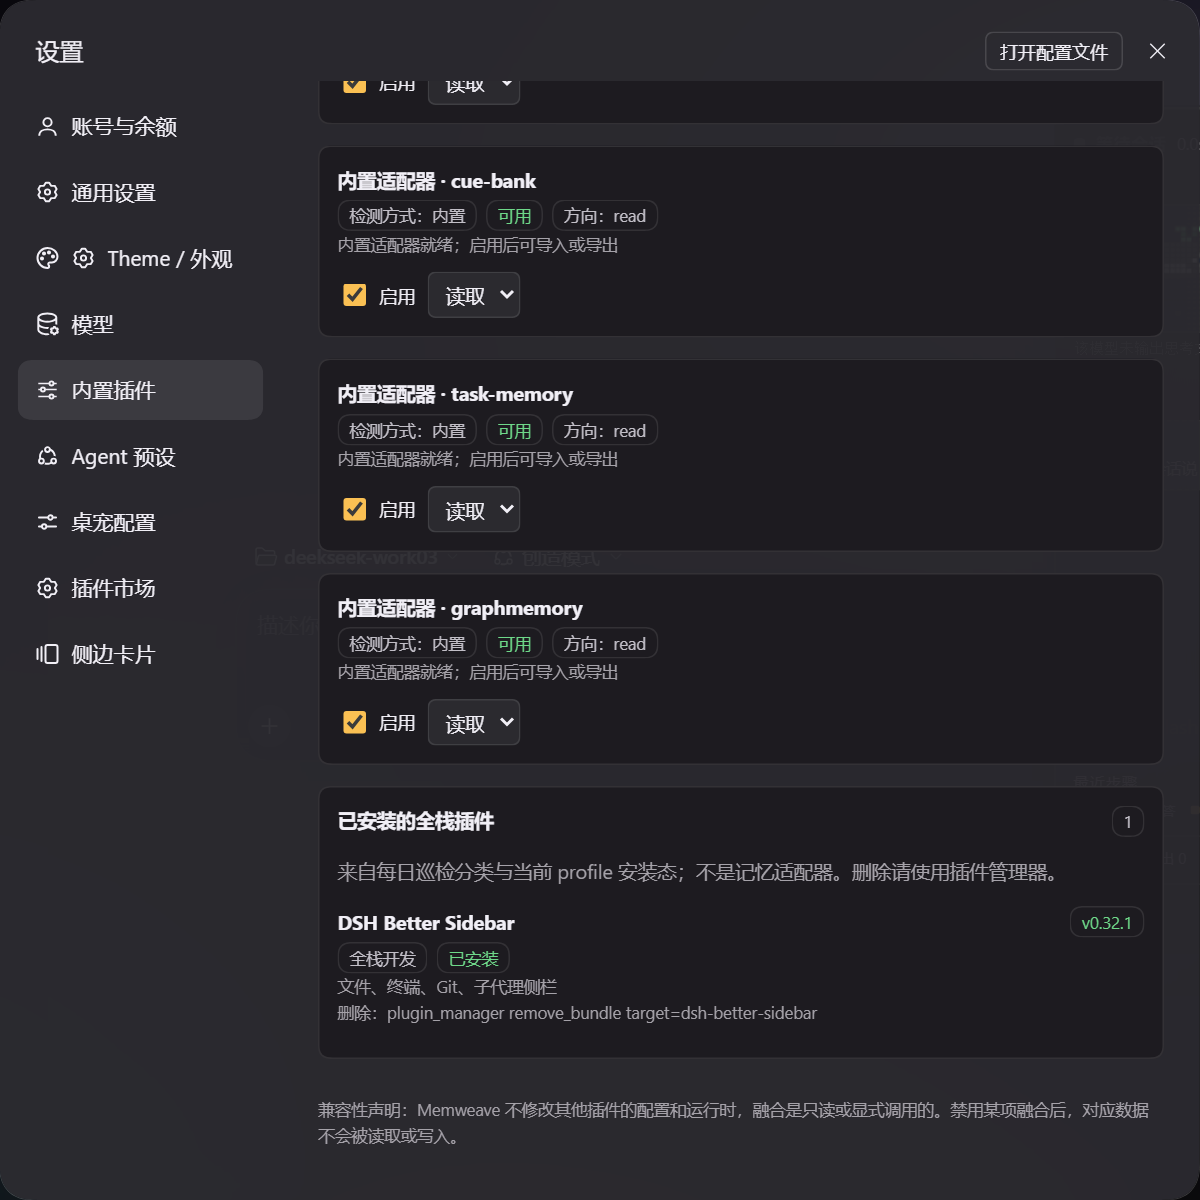
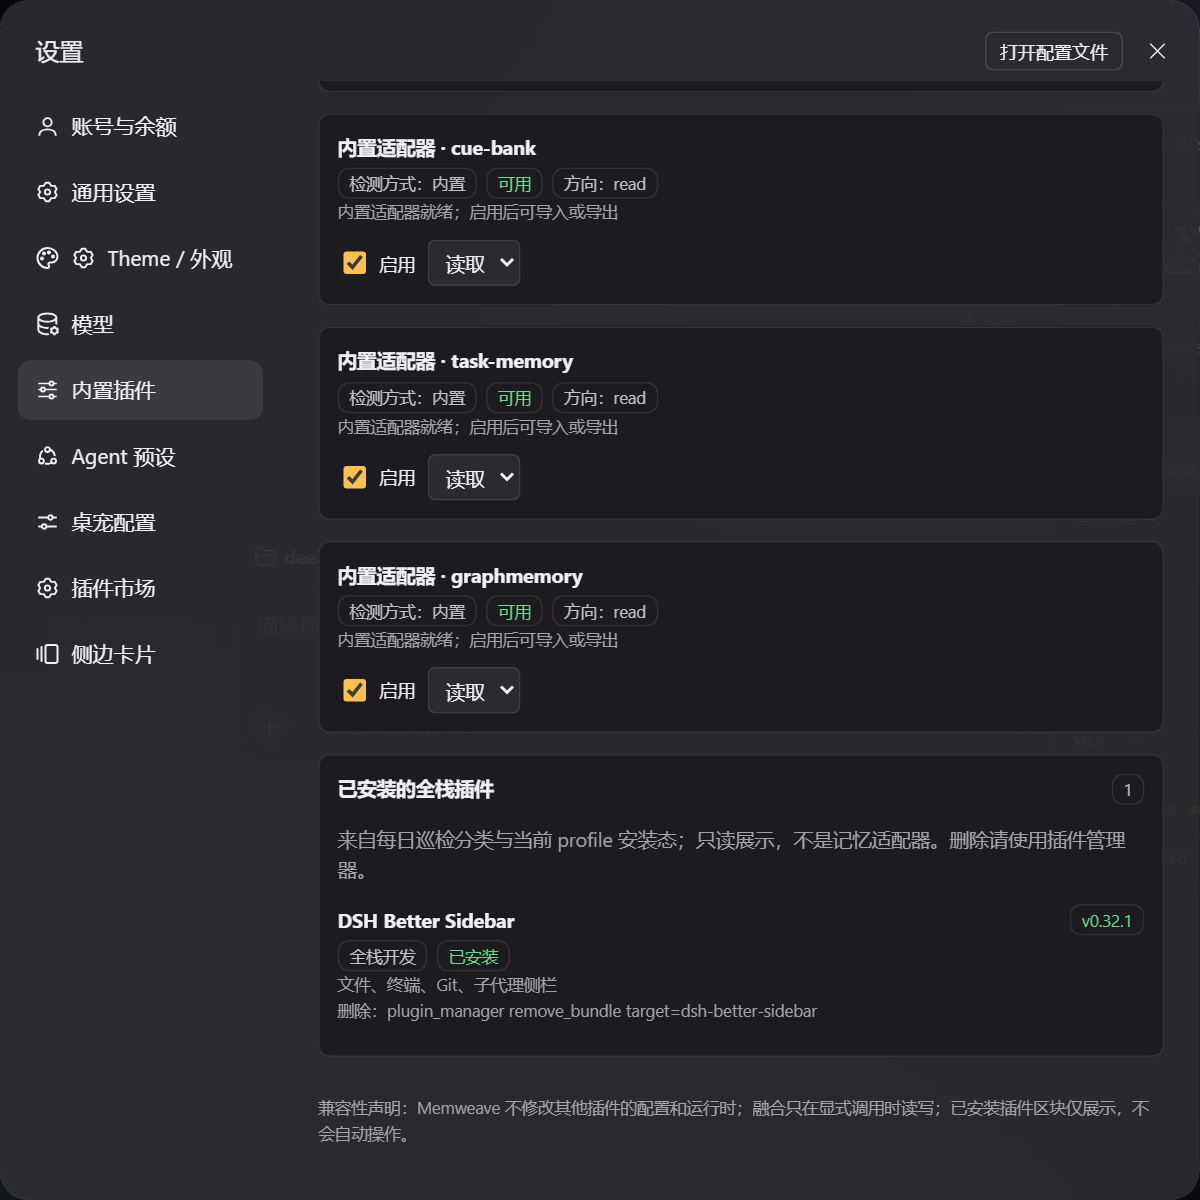
fix(ui): align page descriptions with fixed adapters and discovery
Clarify the storage and fusion intros, distinguish the five fixed memory adapters from the read-only installed full-stack plugin section, and update the affected screenshots. Re-run tests, syntax, and link checks.

diff --git a/client/index.js b/client/index.js
@@ -30,7 +30,7 @@ window.__ModuleLoader__.load({
       tabMemories: '技能浏览',
       tabFusion: '融合',
       storageTitle: '存储与分类',
-      storageIntro: '组织记忆落在绝对路径或当前 workspace 的 .memweave/ 目录。分类计数来自 Host 半的实时扫描。',
+      storageIntro: '记忆数据默认存于当前 workspace 的 .memweave/，也可配置绝对路径；分类与状态计数来自 Host 实时扫描（包含全部状态）。',
       currentRoot: '当前存储根',
       sourceConfigured: '已配置绝对路径',
       sourceSession: '会话 workspace',
@@ -95,10 +95,10 @@ window.__ModuleLoader__.load({
       statusDisputed: '有争议',
       statusSuperseded: '已取代',
       fusionTitle: '融合',
-      fusionIntro: '只读探测兼容记忆插件；内置适配器、安装或检测到即显示可用。启用只解除显式导入/导出的方向限制，不会自动同步，也不修改其他插件。',
-      fusionSummary: '检测到 {count} 个兼容目标，{available} 个可用，{enabled} 个已启用',
+      fusionIntro: '融合页分为两部分：上方是 5 个固定内置记忆适配器，不随市场巡检变化；下方是已安装的全栈开发插件（只读展示）。启用与方向只作用于记忆适配器，不会自动同步或修改其他插件。',
+      fusionSummary: '检测到 {count} 个记忆适配器，{available} 个可用，{enabled} 个已启用',
       discoveryTitle: '已安装的全栈插件',
-      discoveryIntro: '来自每日巡检分类与当前 profile 安装态；不是记忆适配器。删除请使用插件管理器。',
+      discoveryIntro: '来自每日巡检分类与当前 profile 安装态；只读展示，不是记忆适配器。删除请使用插件管理器。',
       discoveryEmpty: '暂无已安装的全栈插件。',
       discoveryInstalled: '已安装',
       discoveryDeleteHint: '删除：plugin_manager remove_bundle target=',
@@ -118,7 +118,7 @@ window.__ModuleLoader__.load({
       directionBoth: '双向',
       aggregateOn: '聚合包已启用',
       aggregateOff: '独立安装',
-      compatibilityNote: '兼容性声明：Memweave 不修改其他插件的配置和运行时，融合是只读或显式调用的。禁用某项融合后，对应数据不会被读取或写入。',
+      compatibilityNote: '兼容性声明：Memweave 不修改其他插件的配置和运行时；融合只在显式调用时读写；已安装插件区块仅展示，不会自动操作。',
       fusionError: '融合操作失败',
       noPlugins: '未检测到兼容插件。',
       apply: '应用',
@@ -136,7 +136,7 @@ window.__ModuleLoader__.load({
       tabMemories: 'Memories',
       tabFusion: 'Fusion',
       storageTitle: 'Storage & categories',
-      storageIntro: 'Organizational memory lives under an absolute root or the current workspace .memweave/. Counts are scanned live by the Host half.',
+      storageIntro: 'Memory data lives under the current workspace .memweave/ by default, or an absolute root you configure. Type/status counts are scanned live by the Host half and include all states.',
       currentRoot: 'Current storage root',
       sourceConfigured: 'Configured absolute path',
       sourceSession: 'Session workspace',
@@ -201,10 +201,10 @@ window.__ModuleLoader__.load({
       statusDisputed: 'Disputed',
       statusSuperseded: 'Superseded',
       fusionTitle: 'Fusion',
-      fusionIntro: 'Read-only probes over compatible memory plugins; built-in adapters, installed packages, or detected data show as available. Enabling only unlocks explicit import/export directions and never auto-syncs or edits another plugin.',
-      fusionSummary: '{count} compatibility targets, {available} available, {enabled} enabled',
+      fusionIntro: 'Fusion has two parts: five fixed built-in memory adapters above (not changed by marketplace discovery), and installed full-stack plugins below (read-only). Enable/direction apply only to memory adapters; nothing syncs automatically or edits another plugin.',
+      fusionSummary: '{count} memory adapters, {available} available, {enabled} enabled',
       discoveryTitle: 'Installed full-stack plugins',
-      discoveryIntro: 'From the daily discovery category and active-profile install state; these are not memory adapters. Remove them with the plugin manager.',
+      discoveryIntro: 'From the daily discovery category and active-profile install state; read-only, not memory adapters. Remove with the plugin manager.',
       discoveryEmpty: 'No full-stack plugins installed.',
       discoveryInstalled: 'Installed',
       discoveryDeleteHint: 'Remove: plugin_manager remove_bundle target=',
@@ -224,7 +224,7 @@ window.__ModuleLoader__.load({
       directionBoth: 'Both',
       aggregateOn: 'Aggregate bundle enabled',
       aggregateOff: 'Standalone install',
-      compatibilityNote: 'Compatibility: Memweave does not modify another plugin’s configuration or runtime. Fusion is read-only or explicit. Disabling a fusion source stops all reads and writes for it.',
+      compatibilityNote: 'Compatibility: Memweave does not modify another plugin’s configuration or runtime. Fusion reads/writes only on explicit calls; the installed-plugin section is display-only.',
       fusionError: 'Fusion operation failed',
       noPlugins: 'No compatible plugins detected.',
       apply: 'Apply',

diff --git a/lib/index.js b/lib/index.js
@@ -264,7 +264,7 @@ function renderList(args, value) {
 function renderFusionStatus(_args, value) {
   const enabled = value.plugins.filter(plugin => plugin.enabled).length;
   const available = value.plugins.filter(plugin => plugin.available).length;
-  const lines = [`检测到 ${value.plugins.length} 个兼容目标，${available} 个可用，${enabled} 个已启用`];
+  const lines = [`检测到 ${value.plugins.length} 个记忆适配器，${available} 个可用，${enabled} 个已启用`];
   for (const plugin of value.plugins) {
     lines.push(`${plugin.label} [${plugin.detectedBy}] ${plugin.available ? '可用' : '不可用'} ${plugin.direction}`);
   }

diff --git a/CHANGELOG.md b/CHANGELOG.md
@@ -21,6 +21,7 @@ The format follows [Keep a Changelog](https://keepachangelog.com/en/1.1.0/), and
 
 ### Changed
 - Deduplicated screenshots and aligned README, USAGE, and DESIGN with the fixed built-in memory adapters and the installed full-stack plugin section.
+- Reworded the storage and fusion introductions so the five fixed memory adapters, installed full-stack plugins, and read-only/display boundaries are explicit.
 
 ### Planned
 - Task-network update tool (`memweave_network_update`).

diff --git a/DESIGN.md b/DESIGN.md
@@ -284,7 +284,7 @@ dsh-memweave/
 
 - 参数：无。
 - 返回 `{ plugins, aggregateBundle }`；每项 `{ key, label, type, detectedBy, available, enabled, direction, detail }`。
-- 渲染：`检测到 N 个兼容目标，A 个可用，M 个已启用` + 每行 + 聚合状态。
+- 渲染：`检测到 N 个记忆适配器，A 个可用，M 个已启用` + 每行 + 聚合状态。
 
 ### 6.9 `memweave_import`
 

diff --git a/docs/USAGE.md b/docs/USAGE.md
@@ -298,7 +298,7 @@ candidate ──verify(valid) +0.15──► verified
 
 顶部汇总：
 
-- `检测到 N 个兼容目标，A 个可用，M 个已启用`
+- `检测到 N 个记忆适配器，A 个可用，M 个已启用`
 - 聚合状态徽章：`独立安装` 或 `聚合包已启用`
 
 每个插件卡片显示：
